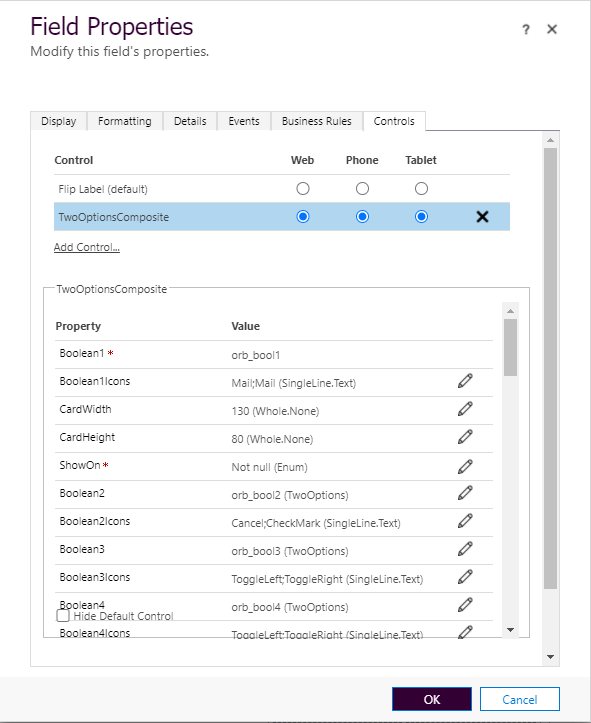
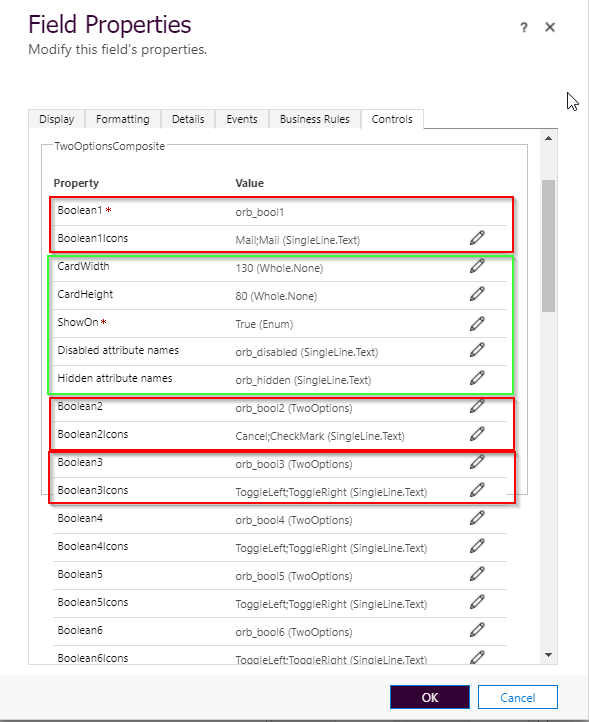
docs

diff --git a/README.md b/README.md
@@ -5,7 +5,10 @@
 This PCF controls makes it easier to work with a bunch of TwoOptions (Booleans). It can include up to 30 TwoOptions (boolean) attributes.
 It offers the possibility to automatically hide attributes based on the value. Have a look:
 
-![main](/Docs/imgs/TwoOptionsComposite.mp4)
+![main](/Docs/imgs/TwoOptionsCompositeNew.gif)
+
+View mode in "edit mode", where all controls are shown.
+![main](/Docs/imgs/EditMode.png)
 
 
 ## Configuration
@@ -40,6 +43,14 @@ To configure the colors for each value, you can use the standard customization. 
 ![main](./Docs/imgs/CardColor1.png)
 ![main](./Docs/imgs/CardColor2.png)
 
+## Disabling and hiding cards in the composite control
+
+You can dynamically/statically hide or disable card in the composite control.
+For that use the properties "Disabled attribute names" and "Hidden attribute names". The value should be a string with the name of the corresponding controls, concatenated using semicolon (;)
+
+So it can be a static value, or you can bind to another column from the entity (in that case you can use form scripting or business rules to set the value)
+
+![main](./Docs/imgs/Config_Disabled.png)
 
 
 
